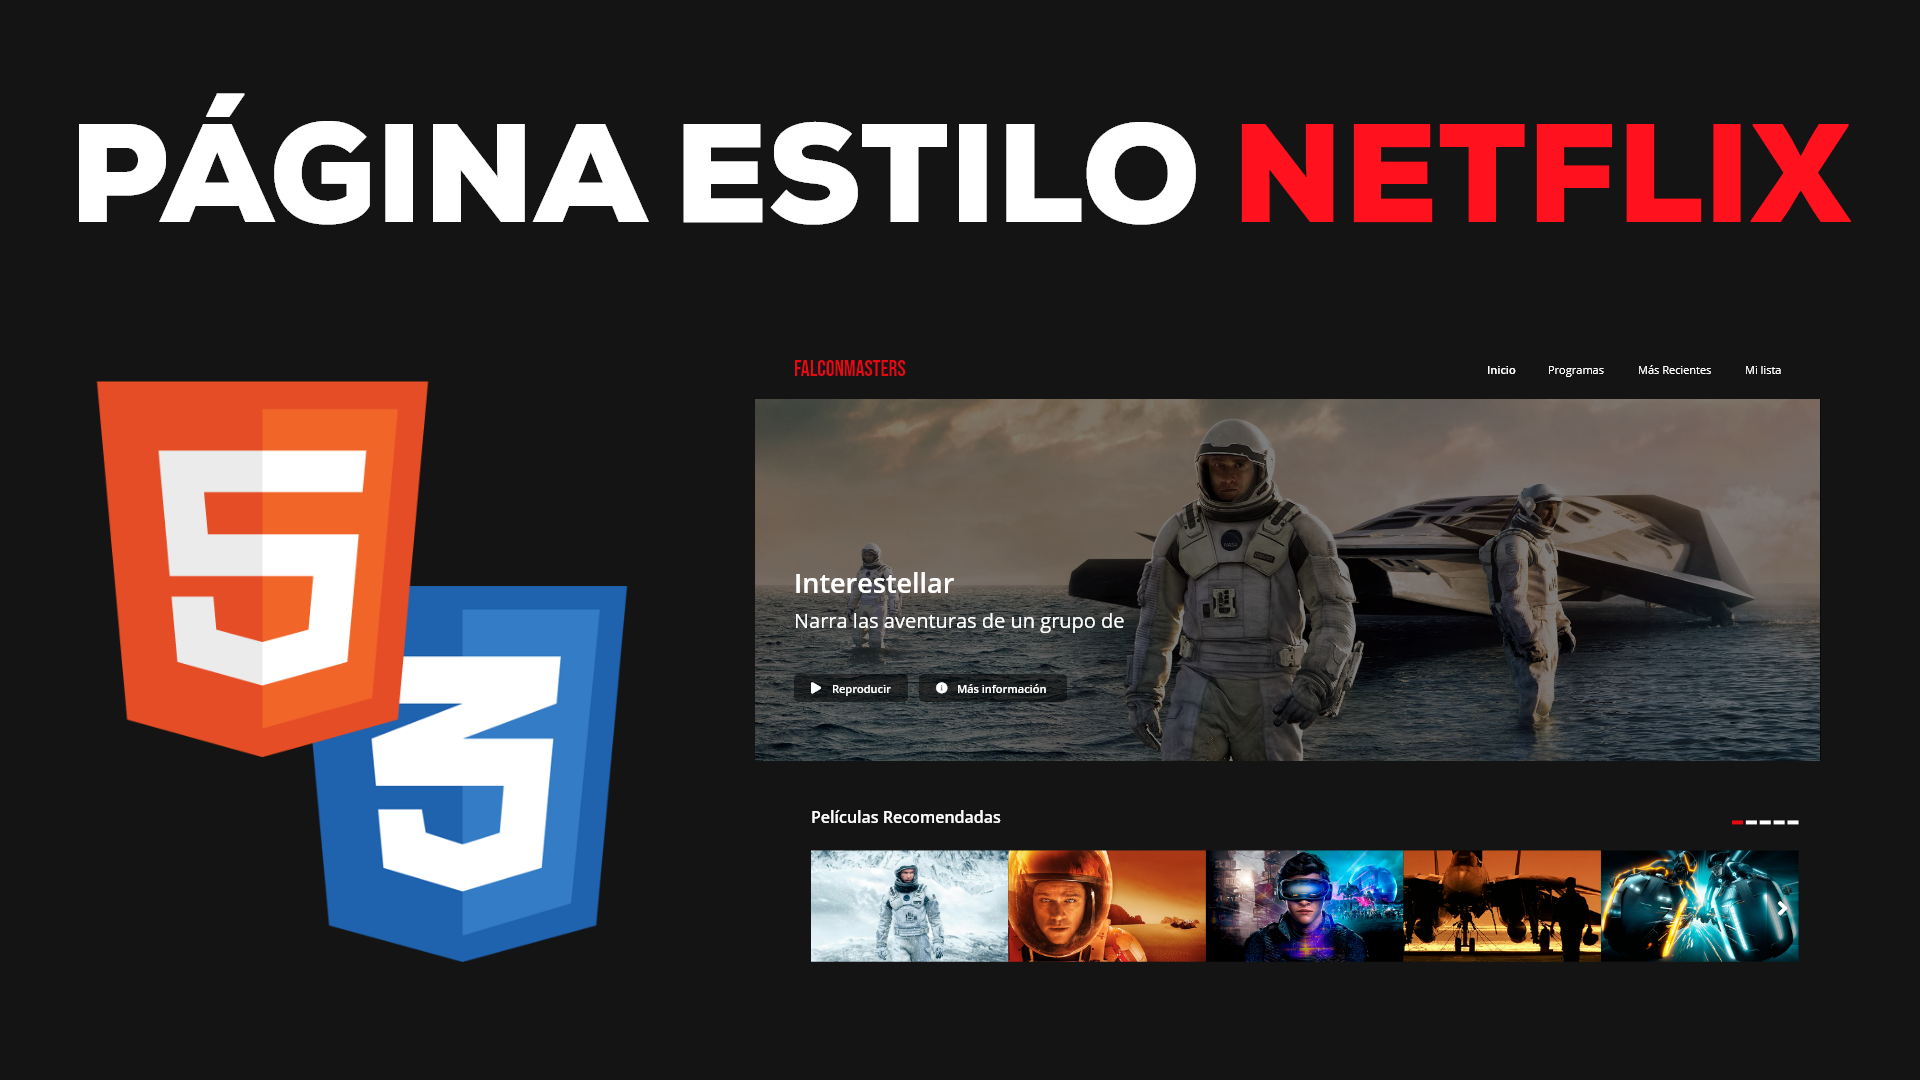
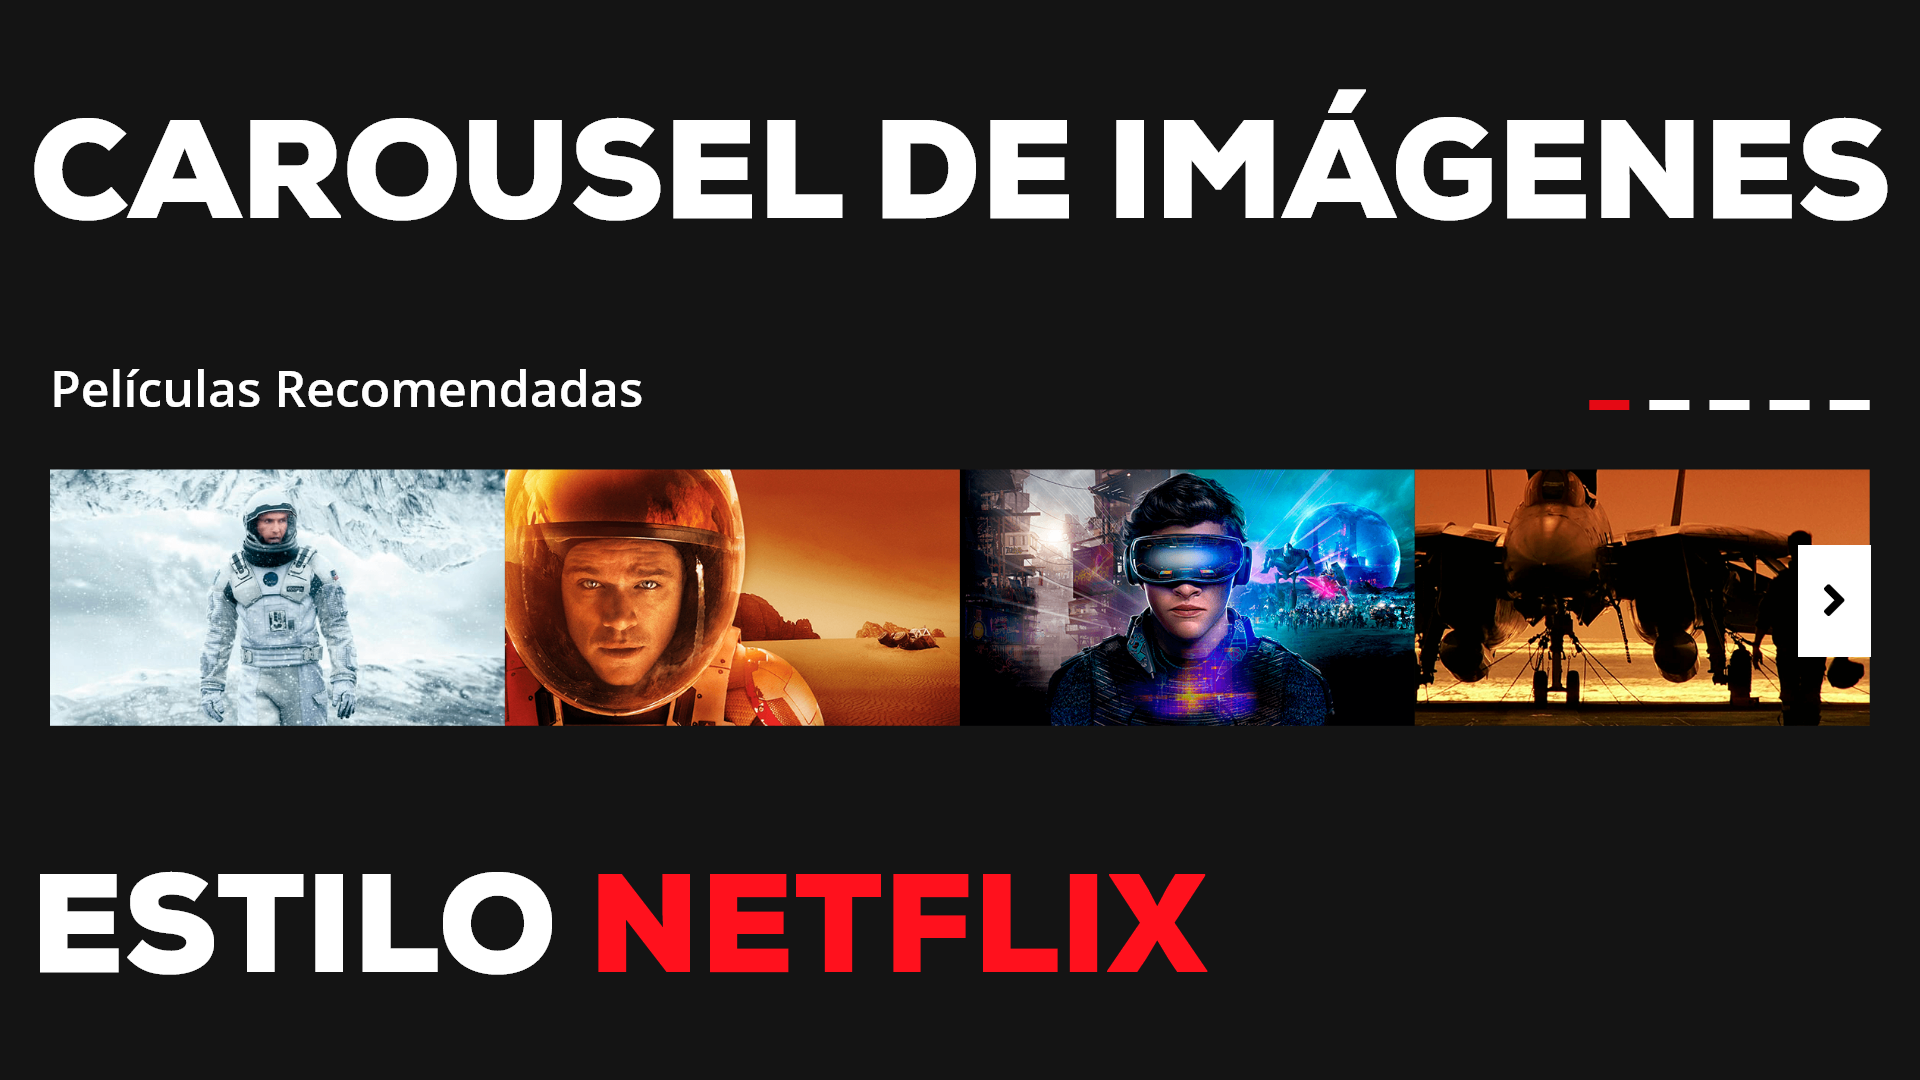
Initial commit

diff --git a/index.html b/index.html
@@ -13,7 +13,7 @@
 			<h2 class="logotipo">FalconMasters</h2>
 			<nav>
 				<a href="#" class="activo">Inicio</a>
-				<a href="hack- ink secrets.mp4">Programas</a>
+				<a href="#">Programas</a>
 				<a href="#">Películas</a>
 				<a href="#">Más Recientes</a>
 				<a href="#">Mi lista</a>
@@ -30,6 +30,87 @@
 				</p>
 				<button role="button" class="boton"><i class="fas fa-play"></i>Reproducir</button>
 				<button role="button" class="boton"><i class="fas fa-info-circle"></i>Más información</button>
+			</div>
+		</div>
+
+		<div class="peliculas-recomendadas contenedor">
+			<div class="contenedor-titulo-controles">
+				<h3>Películas Recomendadas</h3>
+				<div class="indicadores"></div>
+			</div>
+
+			<div class="contenedor-principal">
+				<button role="button" id="flecha-izquierda" class="flecha-izquierda"><i class="fas fa-angle-left"></i></button>
+
+				<div class="contenedor-carousel">
+					<div class="carousel">
+						<div class="pelicula">
+							<a href="#"><img src="img/1.png" alt=""></a>
+						</div>
+						<div class="pelicula">
+							<a href="#"><img src="img/2.png" alt=""></a>
+						</div>
+						<div class="pelicula">
+							<a href="#"><img src="img/3.png" alt=""></a>
+						</div>
+						<div class="pelicula">
+							<a href="#"><img src="img/4.png" alt=""></a>
+						</div>
+						<div class="pelicula">
+							<a href="#"><img src="img/5.png" alt=""></a>
+						</div>
+						<div class="pelicula">
+							<a href="#"><img src="img/6.png" alt=""></a>
+						</div>
+						<div class="pelicula">
+							<a href="#"><img src="img/7.png" alt=""></a>
+						</div>
+						<div class="pelicula">
+							<a href="#"><img src="img/1.png" alt=""></a>
+						</div>
+						<div class="pelicula">
+							<a href="#"><img src="img/2.png" alt=""></a>
+						</div>
+						<div class="pelicula">
+							<a href="#"><img src="img/3.png" alt=""></a>
+						</div>
+						<div class="pelicula">
+							<a href="#"><img src="img/1.png" alt=""></a>
+						</div>
+						<div class="pelicula">
+							<a href="#"><img src="img/2.png" alt=""></a>
+						</div>
+						<div class="pelicula">
+							<a href="#"><img src="img/3.png" alt=""></a>
+						</div>
+						<div class="pelicula">
+							<a href="#"><img src="img/4.png" alt=""></a>
+						</div>
+						<div class="pelicula">
+							<a href="#"><img src="img/5.png" alt=""></a>
+						</div>
+						<div class="pelicula">
+							<a href="#"><img src="img/6.png" alt=""></a>
+						</div>
+						<div class="pelicula">
+							<a href="#"><img src="img/7.png" alt=""></a>
+						</div>
+						<div class="pelicula">
+							<a href="#"><img src="img/1.png" alt=""></a>
+						</div>
+						<div class="pelicula">
+							<a href="#"><img src="img/2.png" alt=""></a>
+						</div>
+						<div class="pelicula">
+							<a href="#"><img src="img/3.png" alt=""></a>
+						</div>
+						<div class="pelicula">
+							<a href="#"><img src="img/4.png" alt=""></a>
+						</div>
+					</div>
+				</div>
+
+				<button role="button" id="flecha-derecha" class="flecha-derecha"><i class="fas fa-angle-right"></i></button>
 			</div>
 		</div>
 	</main>

diff --git a/css/estilos.css b/css/estilos.css
@@ -100,6 +100,102 @@ header nav a.activo {
 	margin-right: 1.25em;
 }
 
+/* ---- ----- ----- Contenedor Titulo y Controles ----- ----- ----- */
+.contenedor-titulo-controles {
+	display: flex;
+	justify-content: space-between;
+	align-items: end;
+}
+
+.contenedor-titulo-controles h3 {
+	color: #fff;
+	font-size: 30px;
+}
+
+.contenedor-titulo-controles .indicadores button {
+	background: #fff;
+	height: 3px;
+	width: 10px;
+	cursor: pointer;
+	border: none;
+	margin-right: 2px;
+}
+
+.contenedor-titulo-controles .indicadores button:hover,
+.contenedor-titulo-controles .indicadores button.activo {
+	background: red;
+}
+
+
+/* ---- ----- ----- Contenedor Principal y Flechas ----- ----- ----- */
+.peliculas-recomendadas {
+	margin-bottom: 70px;
+}
+
+.peliculas-recomendadas .contenedor-principal {
+	display: flex;
+	align-items: center;
+	position: relative;
+}
+
+.peliculas-recomendadas .contenedor-principal .flecha-izquierda,
+.peliculas-recomendadas .contenedor-principal .flecha-derecha {
+	position: absolute;
+	border: none;
+	background: rgba(0,0,0,0.3);
+	font-size: 40px;
+	height: 50%;
+	top: calc(50% - 25%);
+	line-height: 40px;
+	width: 50px;
+	color: #fff;
+	cursor: pointer;
+	z-index: 500;
+	transition: .2s ease all;
+}
+
+.peliculas-recomendadas .contenedor-principal .flecha-izquierda:hover,
+.peliculas-recomendadas .contenedor-principal .flecha-derecha:hover {
+	background: rgba(0,0,0, .9);
+}
+
+.peliculas-recomendadas .contenedor-principal .flecha-izquierda {
+	left: 0;
+}
+
+.peliculas-recomendadas .contenedor-principal .flecha-derecha {
+	right: 0;
+}
+
+/* ---- ----- ----- Carousel ----- ----- ----- */
+.peliculas-recomendadas .contenedor-carousel {
+	width: 100%;
+	padding: 20px 0;
+	overflow: hidden;
+	scroll-behavior: smooth;
+}
+
+.peliculas-recomendadas .contenedor-carousel .carousel {
+	display: flex;
+	flex-wrap: nowrap;
+}
+
+.peliculas-recomendadas .contenedor-carousel .carousel .pelicula {
+	min-width: 20%;
+	transition: .3s ease all;
+	box-shadow: 5px 5px 10px rgba(0,0,0, .3);
+}
+
+.peliculas-recomendadas .contenedor-carousel .carousel .pelicula.hover {
+	transform: scale(1.2);
+	transform-origin: center;
+}
+
+.peliculas-recomendadas .contenedor-carousel .carousel .pelicula img {
+	width: 100%;
+	vertical-align: top;
+}
+
 /* ---- ----- ----- Media Queries ----- ----- ----- */
 @media screen and (max-width: 800px) {
 	header .logotipo {
@@ -118,5 +214,21 @@ header nav a.activo {
 
 	.pelicula-principal .descripcion {
 		max-width: 100%;
+	}
+
+	.peliculas-recomendadas .contenedor-carousel {
+		overflow: visible;
+	}
+
+	.peliculas-recomendadas .contenedor-carousel .carousel {
+		display: grid;
+		grid-template-columns: repeat(3, 1fr);
+		gap: 20px;
+	}
+
+	.peliculas-recomendadas .indicadores,
+	.peliculas-recomendadas .flecha-izquierda,
+	.peliculas-recomendadas .flecha-derecha {
+		display: none;
 	}
 }

diff --git a/js/main.js b/js/main.js
@@ -1,0 +1,60 @@
+const fila = document.querySelector('.contenedor-carousel');
+const peliculas = document.querySelectorAll('.pelicula');
+
+const flechaIzquierda = document.getElementById('flecha-izquierda');
+const flechaDerecha = document.getElementById('flecha-derecha');
+
+// ? ----- ----- Event Listener para la flecha derecha. ----- -----
+flechaDerecha.addEventListener('click', () => {
+	fila.scrollLeft += fila.offsetWidth;
+
+	const indicadorActivo = document.querySelector('.indicadores .activo');
+	if(indicadorActivo.nextSibling){
+		indicadorActivo.nextSibling.classList.add('activo');
+		indicadorActivo.classList.remove('activo');
+	}
+});
+
+// ? ----- ----- Event Listener para la flecha izquierda. ----- -----
+flechaIzquierda.addEventListener('click', () => {
+	fila.scrollLeft -= fila.offsetWidth;
+
+	const indicadorActivo = document.querySelector('.indicadores .activo');
+	if(indicadorActivo.previousSibling){
+		indicadorActivo.previousSibling.classList.add('activo');
+		indicadorActivo.classList.remove('activo');
+	}
+});
+
+// ? ----- ----- Paginacion ----- -----
+const numeroPaginas = Math.ceil(peliculas.length / 5);
+for(let i = 0; i < numeroPaginas; i++){
+	const indicador = document.createElement('button');
+
+	if(i === 0){
+		indicador.classList.add('activo');
+	}
+
+	document.querySelector('.indicadores').appendChild(indicador);
+	indicador.addEventListener('click', (e) => {
+		fila.scrollLeft = i * fila.offsetWidth;
+
+		document.querySelector('.indicadores .activo').classList.remove('activo');
+		e.target.classList.add('activo');
+	});
+}
+
+// ? ----- ----- Hover ----- -----
+peliculas.forEach((pelicula) => {
+	pelicula.addEventListener('mouseenter', (e) => {
+		const elemento = e.currentTarget;
+		setTimeout(() => {
+			peliculas.forEach(pelicula => pelicula.classList.remove('hover'));
+			elemento.classList.add('hover');
+		}, 300);
+	});
+});
+
+fila.addEventListener('mouseleave', () => {
+	peliculas.forEach(pelicula => pelicula.classList.remove('hover'));
+});
